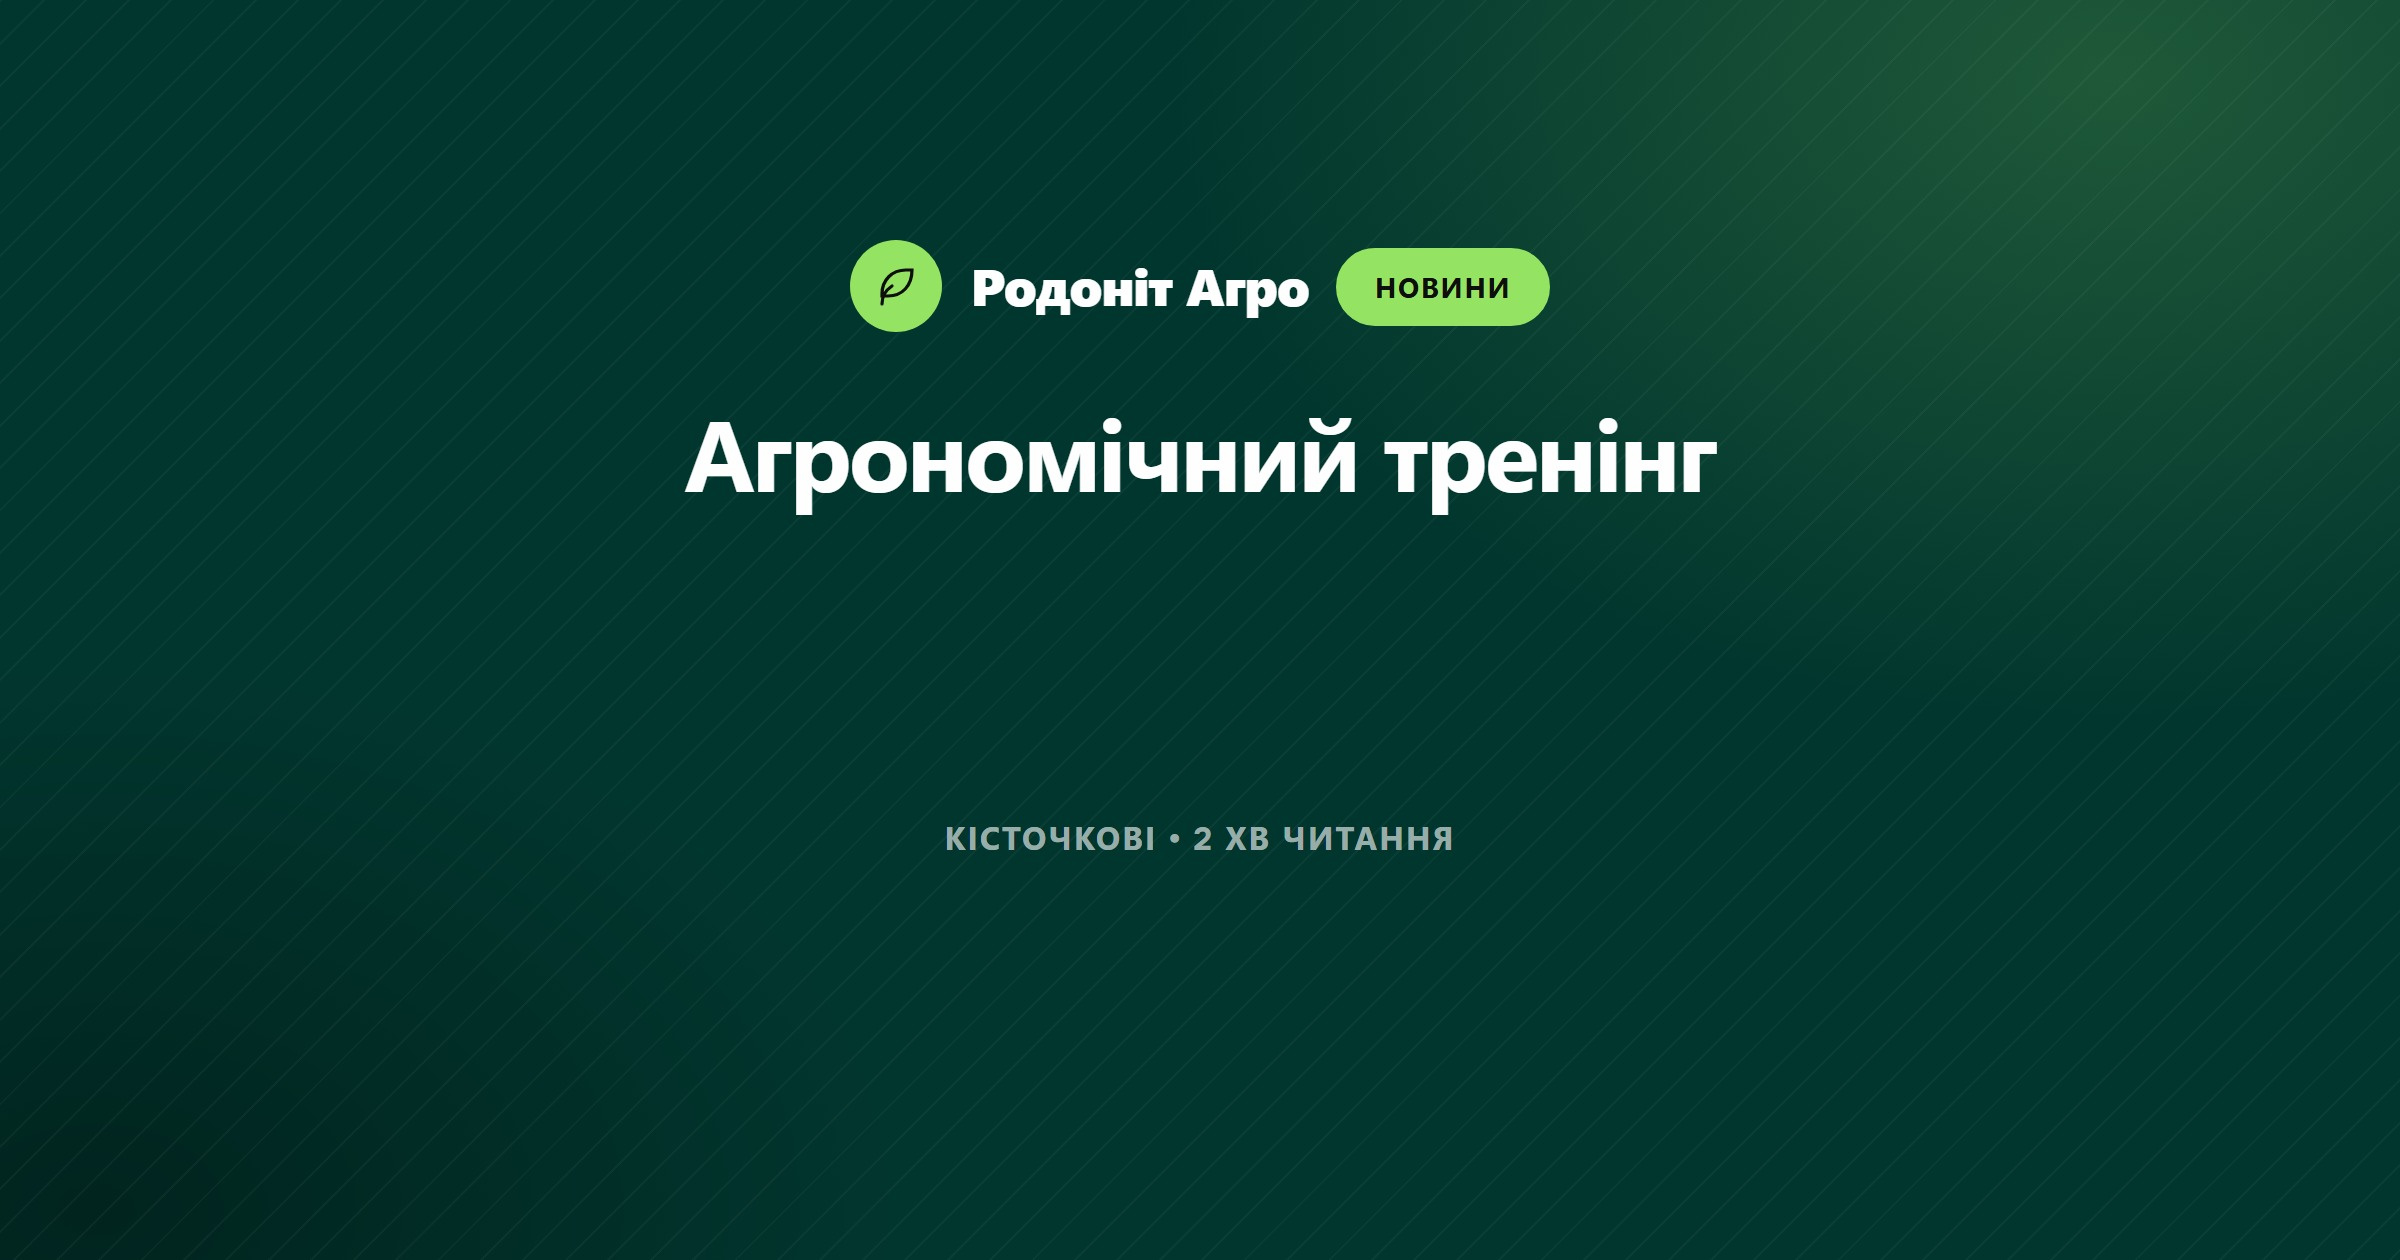
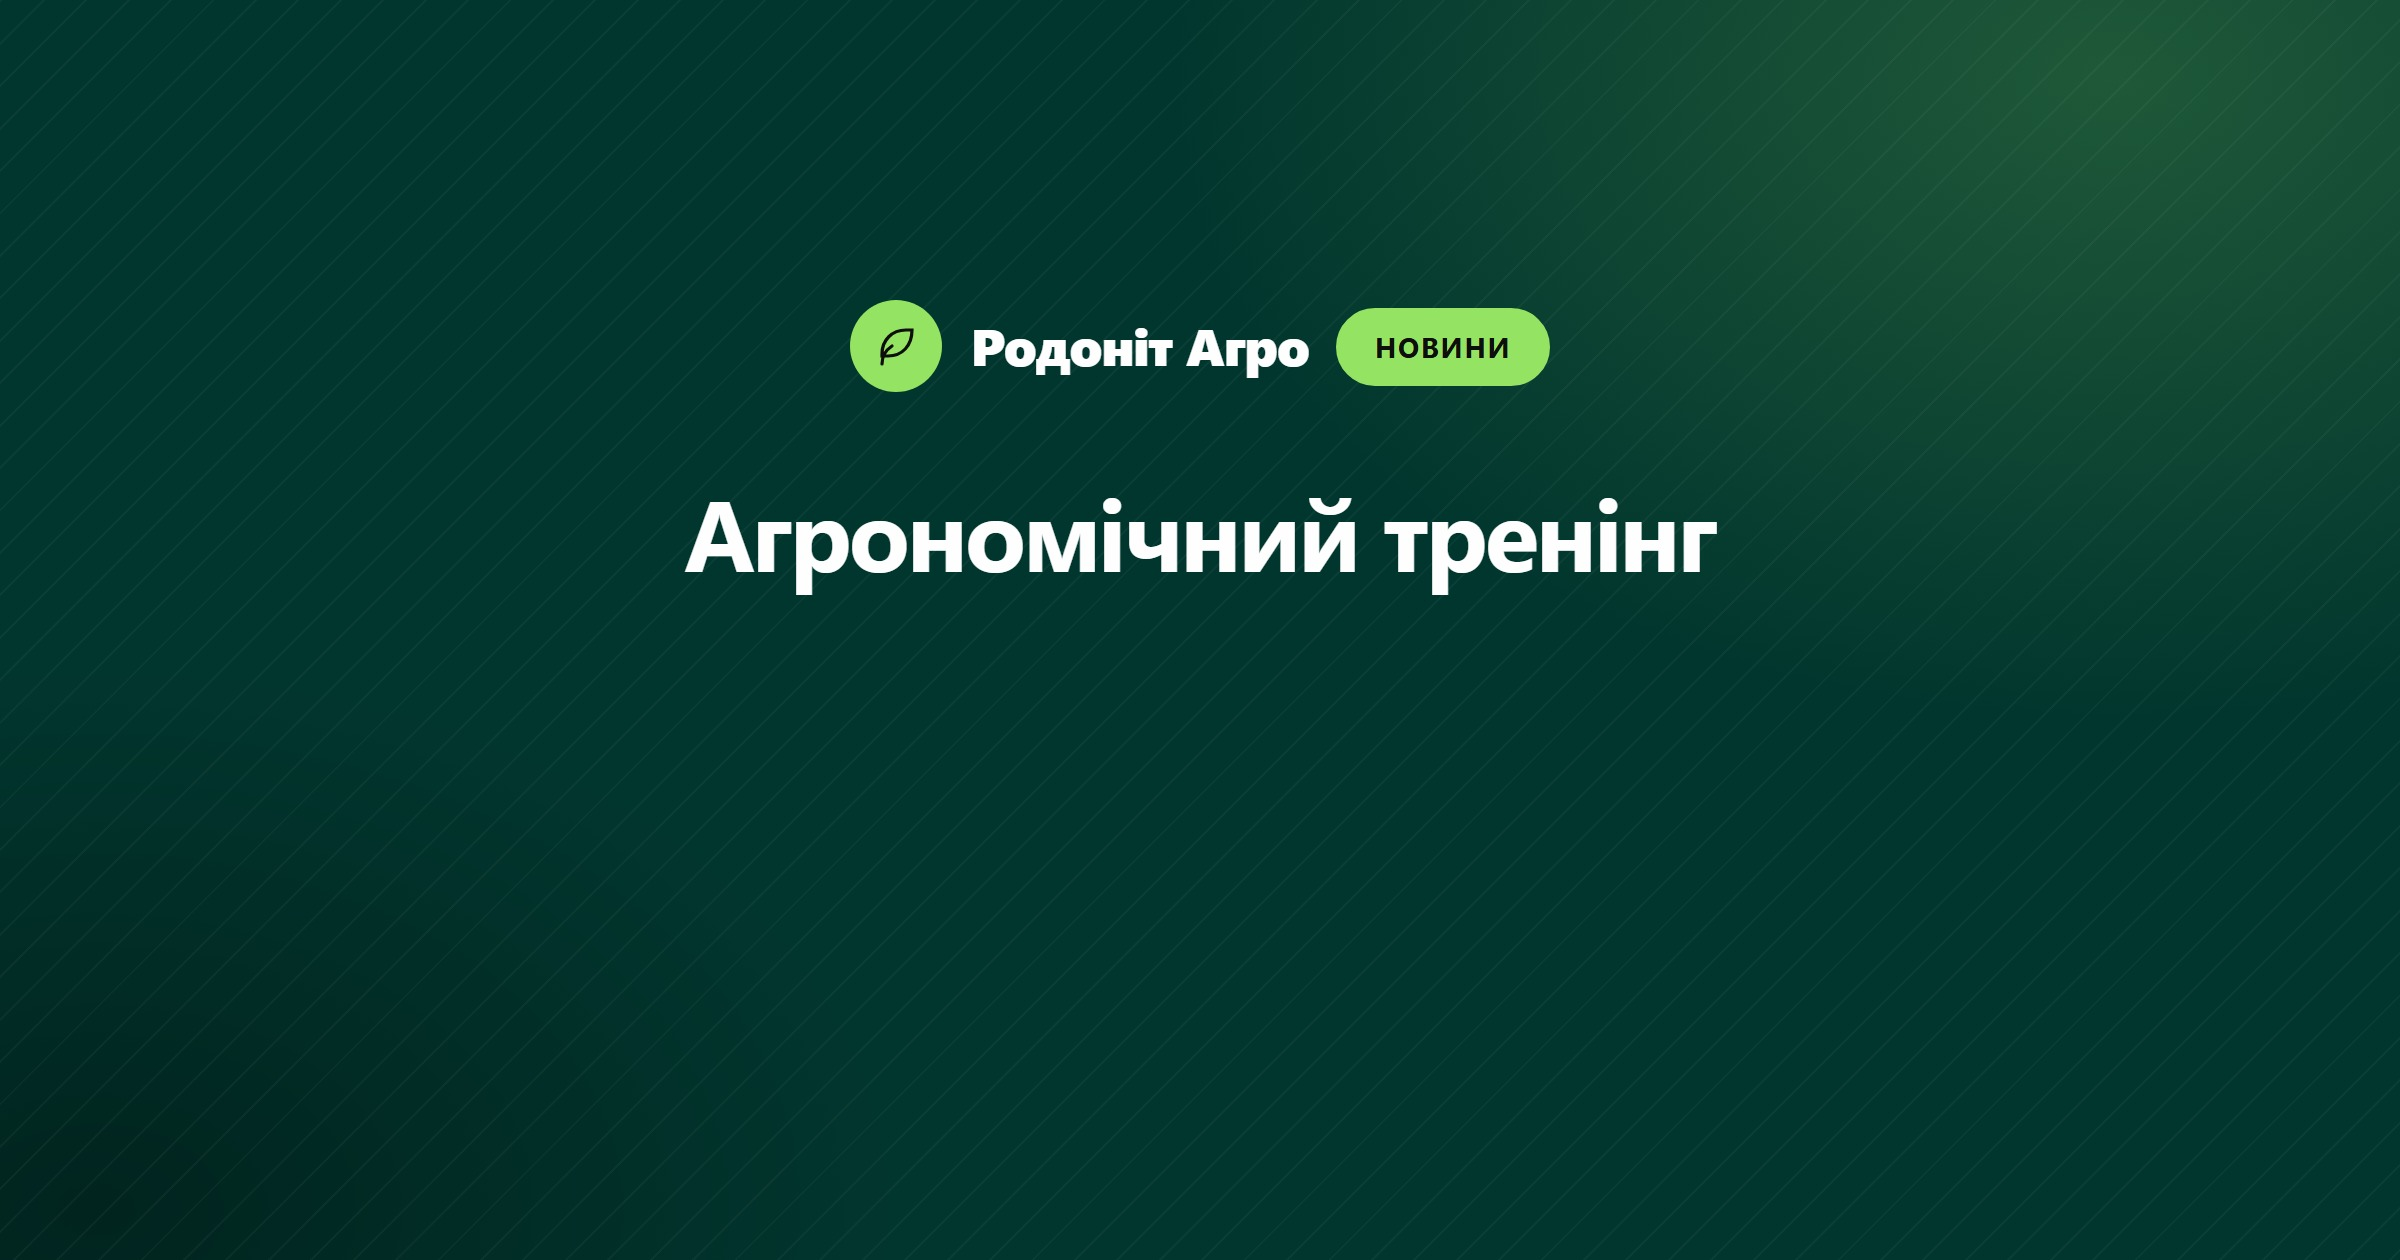
Обкладинки: шви генерації і плашки без дубльованого рядка
Шов на краю. У згенерованих фото на лівому краї сидів чужий кадр — у томатах
це була смуга поля з горизонтом і білою роздільною лінією. За яскравістю вона
майже не відрізнялась, тому автопошук її пропускав, а на сайті вона читалась
як помилка верстки. Усі п'ять перезібрано з оригіналів зі зрізом 4,5% по
периметру; tools/trim_edges.py уміє і шукати шов сам, і зрізати з запасом.

Плашки. Рядок «культура • хв читання» прибрано: рівно те саме стоїть у білій
картці одразу під плашкою, дубль на двох рівнях виглядав як недогляд. Бренд і
заголовок лишились на фіксованих позиціях, тому в сітці вони збігаються між
картками незалежно від довжини заголовка.

Плашки двох статей видалено — вони переїхали на фото, плашки лишаються новинам.

Changed region(s): [[0.2812, 0.1857, 0.7188, 0.4643], [0.375, 0.65, 0.625, 0.681]]

diff --git a/tools/trim_edges.py b/tools/trim_edges.py
@@ -1,0 +1,138 @@
+"""
+Зрізає артефактні краї згенерованих зображень.
+
+Генератори лишають на межі кадру вузьку смугу — світлу, темну або змазану,
+яка не належить сцені. На сайті вона впадає в око одразу: фото має рівний край
+і рамку, тому будь-який шов виглядає як помилка верстки.
+
+Як шукаємо: беремо медіанний профіль кольору по «здоровій» частині кадру й
+рухаємось від краю всередину, поки колонка помітно відрізняється від сусідніх.
+Знайдену смугу відрізаємо з усіх чотирьох боків, а кадр повертаємо до вихідного
+розміру — пропорція й геометрія обкладинки не змінюються.
+
+Запуск:
+    py tools/trim_edges.py public/blog/файл.jpg [ще файли...]
+    py tools/trim_edges.py --check public/blog/*.jpg     (тільки показати)
+"""
+
+from __future__ import annotations
+
+import sys
+from pathlib import Path
+
+from PIL import Image
+
+for stream in (sys.stdout, sys.stderr):
+    try:
+        stream.reconfigure(encoding="utf-8")
+    except (AttributeError, ValueError):
+        pass
+
+# Наскільки далеко від краю взагалі може сидіти артефакт і з якого порогу
+# різниці вважаємо колонку чужою для кадру.
+MAX_BAND = 40
+THRESHOLD = 14.0
+
+
+def line_diff(img: Image.Image, i: int, horizontal: bool) -> float:
+    """Середня різниця між сусідніми лініями (колонками або рядками)."""
+    w, h = img.size
+    px = img.load()
+    if horizontal:
+        span = range(0, h, max(1, h // 80))
+        a = [px[i, y] for y in span]
+        b = [px[i + 1, y] for y in span]
+    else:
+        span = range(0, w, max(1, w // 80))
+        a = [px[x, i] for x in span]
+        b = [px[x, i + 1] for x in span]
+    return sum(abs(p[c] - q[c]) for p, q in zip(a, b) for c in range(3)) / (len(a) * 3)
+
+
+def band_width(img: Image.Image, side: str) -> int:
+    """Ширина артефактної смуги з боку `side`. 0 — краю немає."""
+    w, h = img.size
+    horizontal = side in ("left", "right")
+    size = w if horizontal else h
+    idx = lambda k: k if side in ("left", "top") else size - 2 - k  # noqa: E731
+
+    diffs = [line_diff(img, idx(k), horizontal) for k in range(min(MAX_BAND, size // 4))]
+    # Спокійний рівень кадру — медіана далеких від краю відліків
+    calm = sorted(diffs[MAX_BAND // 2:])[len(diffs[MAX_BAND // 2:]) // 2] if len(diffs) > 4 else 0
+    limit = max(THRESHOLD, calm * 3)
+
+    last = -1
+    for k, d in enumerate(diffs):
+        if d > limit:
+            last = k
+    return last + 2 if last >= 0 else 0
+
+
+def process(path: Path, check_only: bool) -> bool:
+    img = Image.open(path).convert("RGB")
+    w, h = img.size
+    bands = {side: band_width(img, side) for side in ("left", "right", "top", "bottom")}
+    if not any(bands.values()):
+        print(f"{path.name[:52]:54} чисто")
+        return False
+
+    parts = ", ".join(f"{k}={v}px" for k, v in bands.items() if v)
+    print(f"{path.name[:52]:54} артефакт: {parts}")
+    if check_only:
+        return True
+
+    box = (bands["left"], bands["top"], w - bands["right"], h - bands["bottom"])
+    fixed = img.crop(box).resize((w, h), Image.LANCZOS)
+    fixed.save(path, "JPEG", quality=88, subsampling=0, optimize=True, progressive=True)
+    print(f"{'':54} → зрізано й відновлено до {w}x{h}")
+    return True
+
+
+def force_trim(path: Path, percent: float, dest: Path | None = None) -> None:
+    """
+    Безумовний зріз відсотка з кожного боку.
+
+    Потрібен, бо не всякий шов помітний по яскравості: у фото томатів зліва
+    виявився вклеєний зовсім інший кадр (поле з горизонтом) — за кольором
+    близький, тому автопошук його пропускав, а на сайті він читався як смуга.
+    Коли артефакт видно оком, надійніше зрізати з запасом, ніж підбирати поріг.
+    """
+    img = Image.open(path).convert("RGB")
+    w, h = img.size
+    dx, dy = round(w * percent / 100), round(h * percent / 100)
+    fixed = img.crop((dx, dy, w - dx, h - dy)).resize((w, h), Image.LANCZOS)
+    target = dest or path
+    target.parent.mkdir(parents=True, exist_ok=True)
+    fixed.save(target, "JPEG", quality=88, subsampling=0, optimize=True, progressive=True)
+    print(f"{path.name[:52]:54} зрізано по {dx}px з боків і {dy}px згори/знизу → {w}x{h}")
+
+
+def main() -> int:
+    argv = sys.argv[1:]
+    check_only = "--check" in argv
+    percent = 0.0
+    if "--force" in argv:
+        i = argv.index("--force")
+        percent = float(argv[i + 1])
+        argv = argv[:i] + argv[i + 2:]
+    args = [a for a in argv if not a.startswith("--")]
+    if not args:
+        print(__doc__)
+        return 1
+
+    found = 0
+    for pattern in args:
+        for path in sorted(Path().glob(pattern)) or [Path(pattern)]:
+            if not path.exists():
+                continue
+            if percent:
+                force_trim(path, percent)
+            else:
+                found += process(path, check_only)
+    if not percent:
+        print(f"\nз артефактом: {found}")
+    return 0
+
+
+if __name__ == "__main__":
+    sys.exit(main())

diff --git a/tools/make_covers.py b/tools/make_covers.py
@@ -42,9 +42,12 @@ WIDTH, HEIGHT, SCALE = 1200, 630, 2
 
 # Сітка в координатах 1200x630. По вертикалі все у верхніх 490px, по
 # горизонталі — у центральних 900px: саме стільки видно в картці блогу.
-TOP_BRAND = 120
-TOP_TITLE = 200
-TOP_META = 408
+#
+# Рядок метаданих (культура + час читання) прибрано свідомо: рівно те саме
+# стоїть у білій картці під плашкою, а дубль на двох рівнях виглядав як
+# недогляд. Плашка тепер несе тільки бренд і заголовок.
+TOP_BRAND = 150
+TOP_TITLE = 240
 SIDE = 150
 
 
@@ -79,7 +82,6 @@ def load_posts() -> list[dict]:
 
 
 def page_html(post: dict, fonts: str) -> str:
-    meta = " • ".join([*post["tags"], f"{post['readMinutes']} хв читання"])
     accent = "accent" if post["category"].lower().startswith("нов") else ""
     return f"""<!doctype html><meta charset="utf-8"><style>
 {fonts}
@@ -110,9 +112,6 @@ h1{{position:absolute;top:{TOP_TITLE}px;left:{SIDE}px;right:{SIDE}px;
   font-size:50px;font-weight:700;line-height:1.16;letter-spacing:-.03em;
   text-align:center;text-wrap:balance;
   display:-webkit-box;-webkit-line-clamp:3;-webkit-box-orient:vertical;overflow:hidden}}
-.meta{{top:{TOP_META}px;font-size:16px;font-weight:700;letter-spacing:.07em;
-  text-transform:uppercase;color:rgba(255,255,255,.62)}}
-.meta b{{color:#95E362;font-weight:700}}
 </style>
 <div class="wrap">
   <div class="row brand">
@@ -122,7 +121,6 @@ h1{{position:absolute;top:{TOP_TITLE}px;left:{SIDE}px;right:{SIDE}px;
     <span class="pill {accent}">{post['category']}</span>
   </div>
   <h1>{post['title']}</h1>
-  <div class="row meta">{meta}</div>
 </div>"""
 
 
